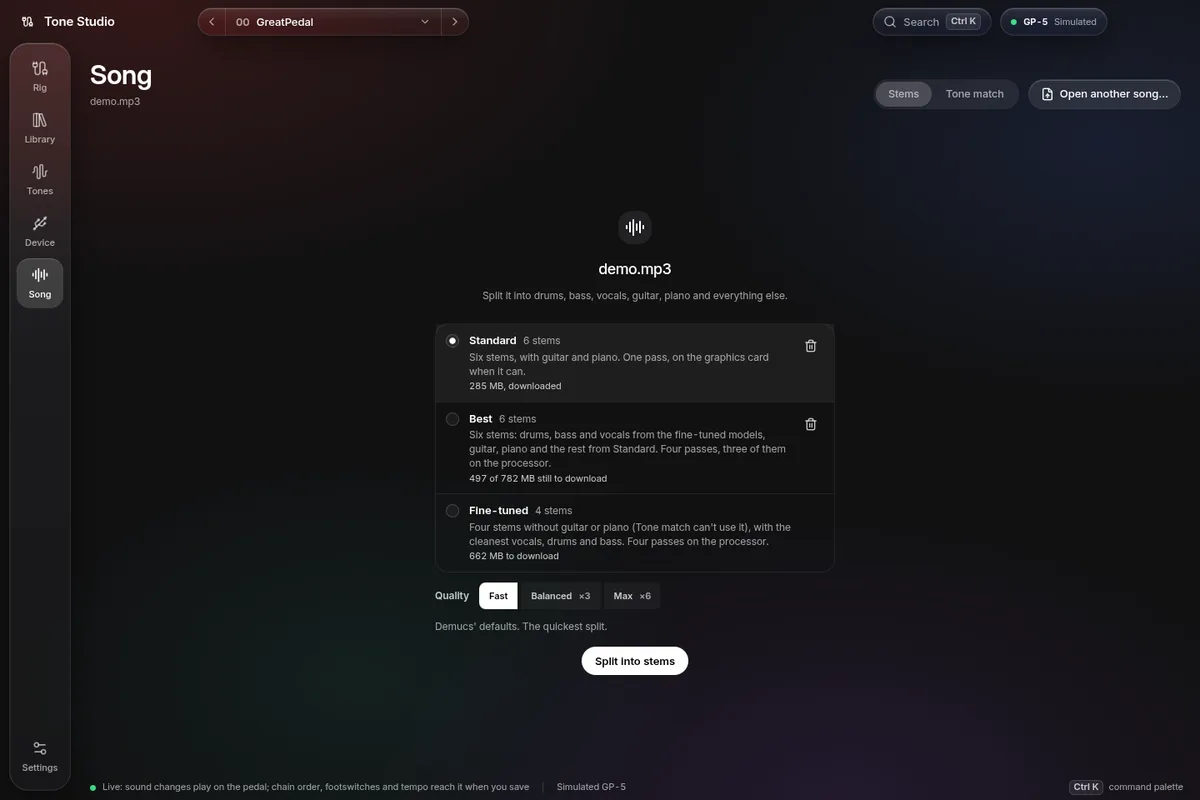
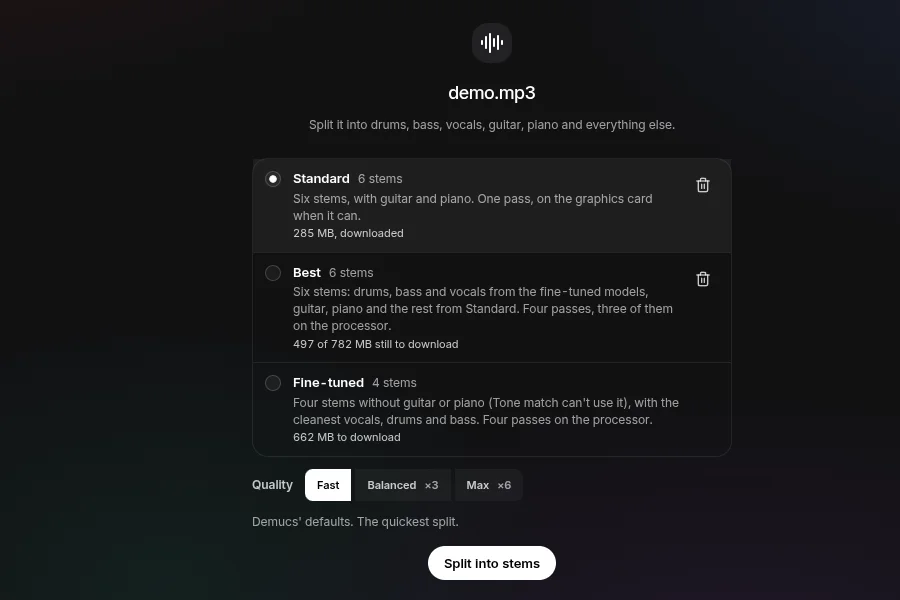
style(ui): crop What's new screenshots to the feature, larger dot targets, one page-title weight
The What's new screenshots were whole-window shots with 4px text; they now show
only the model picker, the capture ranking and the search results. Tones and Song
titles use the same weight and tracking as Library, Rig and Capture.

diff --git a/app/src/renderer/src/app/overlays/WhatsNewDialog.tsx b/app/src/renderer/src/app/overlays/WhatsNewDialog.tsx
@@ -9,7 +9,7 @@ import toneMatch from "@/assets/whats-new/tone-match.webp";
 import search from "@/assets/whats-new/search.webp";
 
 const SLIDES = [
-  { title: "Pick the stem separation model", text: "Before the first split, choose Standard, Fine-tuned or Best and Fast, Balanced or Max quality. Download, resume and delete models from the same picker.", image: stems },
+  { title: "Pick the stem separation model", text: "Before the first split, choose a model (Standard, Best or Fine-tuned) and a quality (Fast, Balanced or Max). Models download, resume and delete from the same picker.", image: stems },
   { title: "Tone match builds a SnapTone", text: "Your downloaded NAM captures are ranked against the song's guitar. Build the SnapTone with a cab IR designed for that song; nothing is written until you press Write.", image: toneMatch },
   { title: "Search TONE3000 in the app", text: "A new Search tab with gear, architecture and sort filters. Browse is still there as a fallback.", image: search },
 ];
@@ -41,7 +41,7 @@ export function WhatsNewDialog() {
           <div ref={track} onScroll={onScroll} className="flex snap-x snap-mandatory overflow-x-auto scroll-smooth [scrollbar-width:none] [&::-webkit-scrollbar]:hidden">
             {SLIDES.map((s, i) => (
               <section key={s.title} aria-label={`${i + 1} of ${SLIDES.length}`} className="flex w-full shrink-0 snap-start flex-col gap-3">
-                <img src={s.image} alt="" className="aspect-[3/2] w-full rounded-sm border border-white/10 object-cover object-top-left" />
+                <img src={s.image} alt="" className="aspect-[3/2] w-full rounded-sm border border-white/10 object-cover" />
                 <h3 className="text-[15px] font-semibold">{s.title}</h3>
                 <p className="text-[13px] text-pretty text-silkscreen-2">{s.text}</p>
               </section>
@@ -54,7 +54,9 @@ export function WhatsNewDialog() {
               <ChevronLeft />
             </Button>
             {SLIDES.map((s, i) => (
-              <button key={s.title} type="button" aria-label={`Slide ${i + 1}`} aria-current={i === index} onClick={() => goTo(i)} className={`size-2 rounded-full ${i === index ? "bg-brand" : "bg-white/25"}`} />
+              <button key={s.title} type="button" aria-label={`Slide ${i + 1}`} aria-current={i === index} onClick={() => goTo(i)} className="grid size-5 place-items-center">
+                <span className={`size-2 rounded-full ${i === index ? "bg-brand" : "bg-white/25"}`} />
+              </button>
             ))}
             <Button variant="ghost" size="icon" aria-label="Next" disabled={index === SLIDES.length - 1} onClick={() => goTo(index + 1)}>
               <ChevronRight />

diff --git a/app/src/renderer/src/screens/tones/TonesScreen.tsx b/app/src/renderer/src/screens/tones/TonesScreen.tsx
@@ -159,7 +159,7 @@ function Head() {
   const pedal = usePedalName();
   return (
     <div className="grid grid-cols-[minmax(0,1fr)_auto] items-end gap-x-6 pt-5 pb-1">
-      <h1 className="col-start-1 row-start-1 text-[32px] leading-[1.1] font-semibold tracking-[-0.01em] text-balance">Tones</h1>
+      <h1 className="col-start-1 row-start-1 text-[32px] leading-[1.1] font-bold tracking-[-0.02em] text-balance">Tones</h1>
       <p className="col-start-1 row-start-2 mt-1.5 text-[12px] text-pretty text-silkscreen-3 @max-[799px]:col-span-2">NAM captures and IRs from TONE3000, and what's on your {pedal}.</p>
       <div className="col-start-2 row-span-2 row-start-1 flex items-center gap-3 @max-[799px]:row-span-1 @max-[799px]:self-center">
         <span className="text-[12px] font-extrabold tracking-[0.02em] whitespace-nowrap text-silkscreen" aria-label="TONE3000">

diff --git a/app/src/renderer/src/screens/song/SongScreen.tsx b/app/src/renderer/src/screens/song/SongScreen.tsx
@@ -50,7 +50,7 @@ export function SongScreen() {
       />
       <Tabs value={tab} onValueChange={(v) => setTab(v as SongTab)} className="flex min-h-0 flex-1 flex-col gap-3.5">
         <div className="grid grid-cols-[minmax(0,1fr)_auto] items-end gap-x-6 pt-5 pb-1">
-          <h1 className="col-start-1 row-start-1 text-[32px] leading-[1.1] font-semibold tracking-[-0.01em] text-balance">Song</h1>
+          <h1 className="col-start-1 row-start-1 text-[32px] leading-[1.1] font-bold tracking-[-0.02em] text-balance">Song</h1>
           <p className="col-start-1 row-start-2 mt-1.5 truncate text-[12px] text-silkscreen-3">
             {source ? source.name : `Split a song into stems on this computer, then find a ${pedal} tone for its guitar.`}
           </p>
